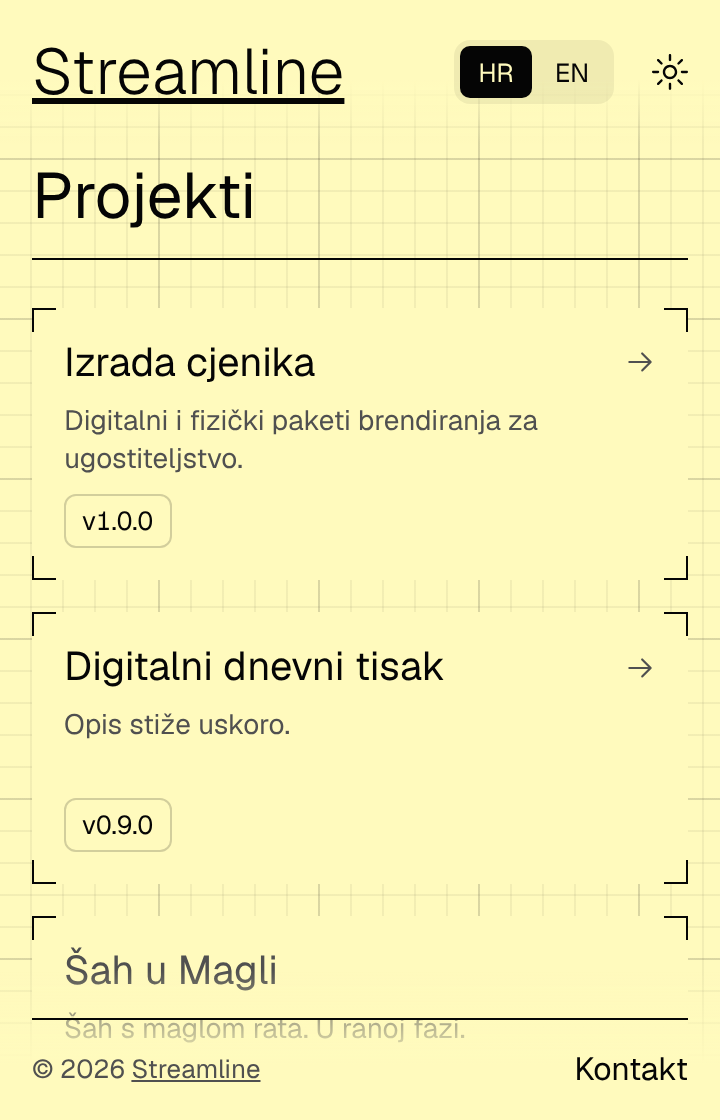
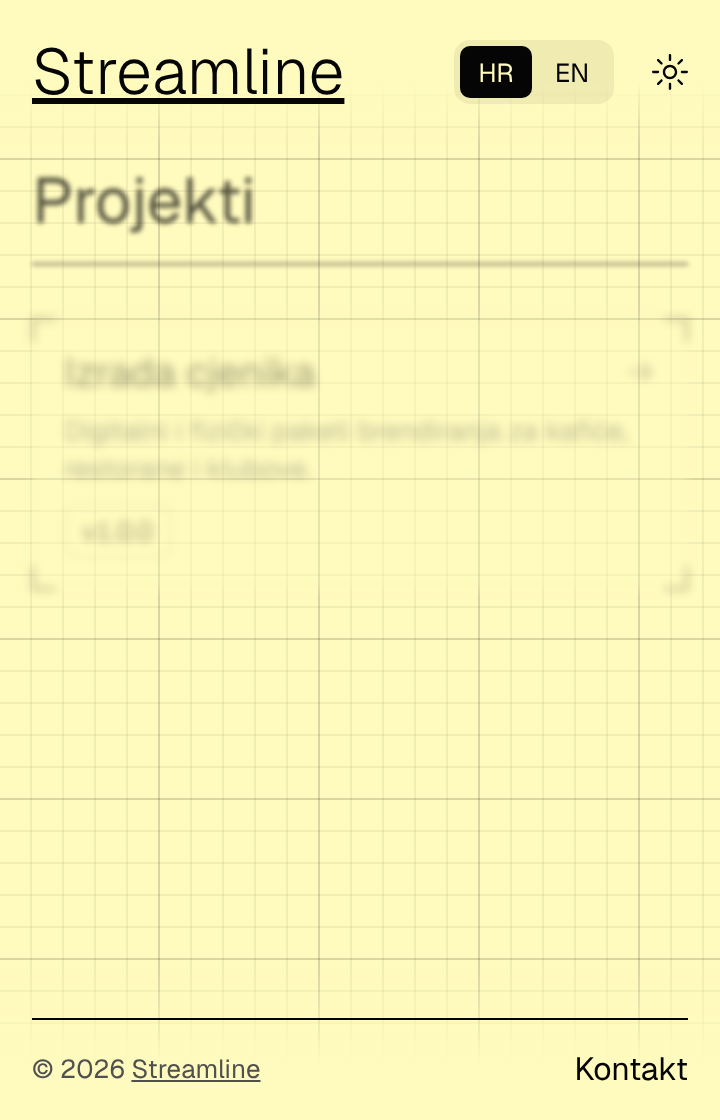
Name the venues in Izrada cjenika, drop the chess description
Claude-Session: https://claude.ai/code/session_01YGwdKXPQWDn9uMpYtQgkLD

diff --git a/index.html b/index.html
@@ -55,7 +55,7 @@
                 <!-- texts in both languages are in js/lang.js -->
                 <a class="project" href="https://streamlinedesign.github.io/demo/">
                     <h4>Izrada cjenika</h4>
-                    <p data-i18n="menuDesc">Digitalni i fizički paketi brendiranja za&nbsp;ugostiteljstvo.</p>
+                    <p data-i18n="menuDesc">Digitalni i fizički paketi brendiranja za kafiće, restorane i&nbsp;klubove.</p>
                     <span class="version">v1.0.0</span>
                     <svg class="project-arrow" width="16" height="16" viewBox="0 0 15 15" fill="none" aria-hidden="true"><path d="M8.15 3.15a.5.5 0 0 1 .7 0l4 4a.5.5 0 0 1 0 .7l-4 4a.5.5 0 0 1-.7-.7L11.29 8H2.5a.5.5 0 0 1 0-1h8.79L8.15 3.85a.5.5 0 0 1 0-.7Z" fill="currentColor"/></svg>
                 </a>
@@ -70,7 +70,6 @@
                 <!-- no page yet: a div instead of a link -->
                 <div class="project is-quiet">
                     <h4>Šah u magli rata</h4>
-                    <p data-i18n="chessDesc">U izradi.</p>
                     <span class="version">v0.1.0</span>
                 </div>
             </div>

diff --git a/js/lang.js b/js/lang.js
@@ -12,9 +12,8 @@
             zoomIn: 'Uvećaj',
             theme: 'Promijeni temu',
             projects: 'Projekti',
-            menuDesc: 'Digitalni i fizički paketi brendiranja za\u00a0ugostiteljstvo.',
+            menuDesc: 'Digitalni i fizički paketi brendiranja za kafiće, restorane i\u00a0klubove.',
             pressDesc: 'Dnevni agregat novosti i\u00a0igrice.',
-            chessDesc: 'U izradi.',
             contact: 'Kontakt',
         },
         en: {
@@ -25,9 +24,8 @@
             zoomIn: 'Zoom in',
             theme: 'Toggle theme',
             projects: 'Projects',
-            menuDesc: 'Digital and physical branding packages for\u00a0hospitality.',
+            menuDesc: 'Digital and physical branding packages for cafés, restaurants and\u00a0clubs.',
             pressDesc: 'Daily news aggregator and\u00a0games.',
-            chessDesc: 'Work in progress.',
             contact: 'Contact',
         },
     };
